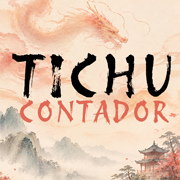
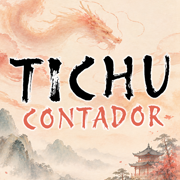
Add files via upload

diff --git a/index.html b/index.html
@@ -15,6 +15,8 @@
 *{box-sizing:border-box}
 html{min-height:100%;background:#f6e6bf;scroll-padding-top:env(safe-area-inset-top,0px)}
 *{font-synthesis:none}
+.logo{margin:0;text-align:center;line-height:0}.logo img{display:block;margin:0 auto;width:min(80vw,340px);height:auto;filter:drop-shadow(0 2px 3px rgba(255,255,255,.7))}
+header .logo img{width:min(58vw,230px)}
 .team{background:var(--card);border:1px solid var(--line);border-top:8px solid var(--tc);border-radius:14px;padding:2px 12px 12px;margin:14px 0;box-shadow:0 3px 10px rgba(80,30,0,.15);-webkit-backdrop-filter:blur(3px);backdrop-filter:blur(3px)}
 .team label:first-child{font-weight:800;color:var(--tc)}
 .p,.hist,.rank{-webkit-backdrop-filter:blur(3px);backdrop-filter:blur(3px)}
@@ -100,7 +102,7 @@ input[type=text],input[type=number]{font:inherit;padding:10px;border:1px solid v
 <footer class="legal"><p><b>Tichu</b> es un juego de sus respectivos autores, editado en español por <b>Devir</b>. Este contador gratuito ha sido diseñado y creado por <b>PenTech</b> como complemento para facilitar la contabilidad de la partida.</p><p>El nombre del juego y sus reglas pertenecen a sus titulares.</p></footer>
 <script>
 const KEY="tichu-v1",COLS=["#b8432f","#2e7d8c"],PC=["#b8432f","#2e7d8c","#6f9a4a","#e3a72f"];
-const BRAND='<h1>Tichu</h1>';
+const BRAND='<h1 class="logo"><img src="logo.webp" width="469" height="219" alt="Tichu · Contador"></h1>';
 let S=null,H=[],F=null;
 try{const r=localStorage.getItem(KEY);if(r){S=JSON.parse(r);const q=localStorage.getItem(KEY+"-h");if(q){const a=JSON.parse(q);if(Array.isArray(a))H=a}}}catch(e){}
 const $=s=>document.querySelector(s);

diff --git a/sw.js b/sw.js
@@ -1,5 +1,5 @@
-const V="tichu-v1-20";
-const CORE=["./","index.html","manifest.json","icon-192.png","icon-512.png","icon-maskable-192.png","icon-maskable-512.png","apple-touch-icon.png","fondo.webp"];
+const V="tichu-v1-21";
+const CORE=["./","index.html","manifest.json","icon-192.png","icon-512.png","icon-maskable-192.png","icon-maskable-512.png","apple-touch-icon.png","fondo.webp","logo.webp"];
 self.addEventListener("install",e=>{e.waitUntil(caches.open(V).then(c=>c.addAll(CORE)).then(()=>self.skipWaiting()))});
 self.addEventListener("activate",e=>{e.waitUntil(caches.keys().then(k=>Promise.all(k.filter(x=>x!==V).map(x=>caches.delete(x)))).then(()=>self.clients.claim()))});
 self.addEventListener("fetch",e=>{
